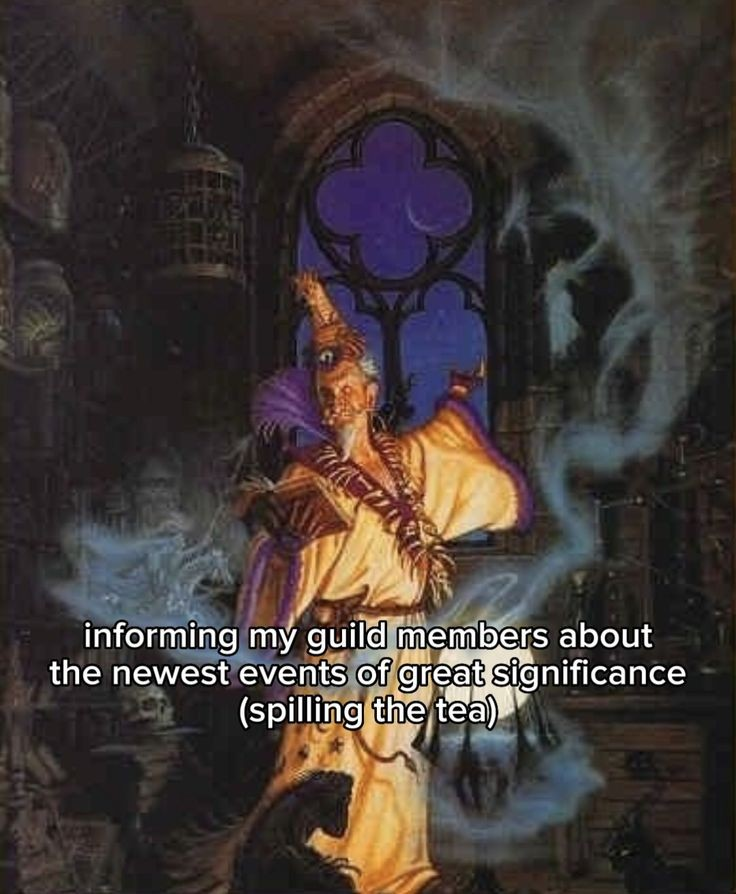
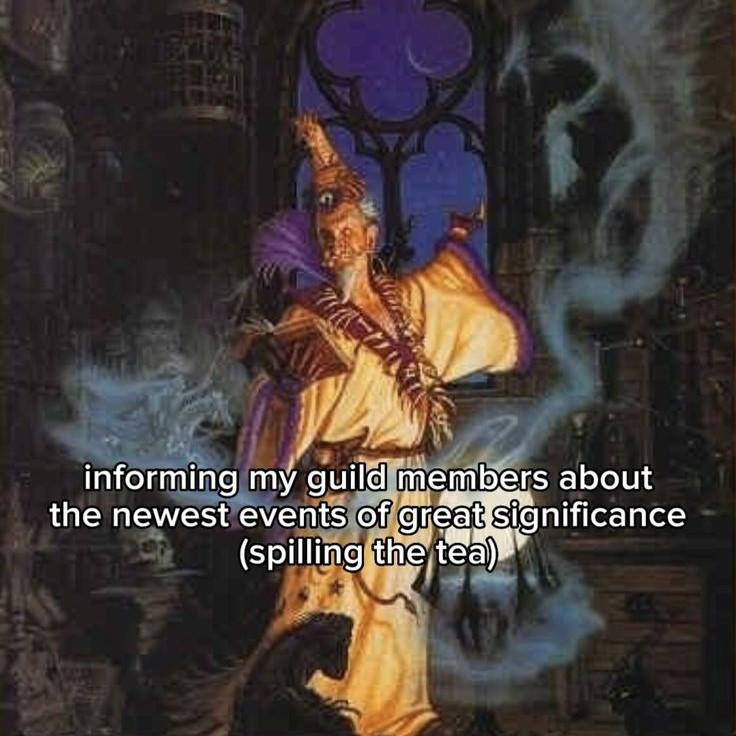
Carousel working alright. Could be more centered but it's good for the time I've had.

diff --git a/10/project5-library/carousel.js b/10/project5-library/carousel.js
@@ -1,5 +1,6 @@
 
 let images = ["images/wizard1.jpg", "images/wizard2.jpg", "images/wizard3.jpg", "images/wizard4.jpg"];
+let alts = ["pondering the orb", "meeting the guild", "absorbing wisdom", "collecting hymns"];
 let image=document.getElementById("carousel-example");
 count = 0;
 
@@ -7,9 +8,9 @@ setInterval(switchImg, 5000);
 
 
 function switchImg(){
-    image.innerHTML = `<div id="image" class="image" style="background-image: url(${images[count]})"></div>`
+    image.innerHTML = `<img id="image" class="image" src=${images[count]} alt="${alts[count]}" max-width="500px" height:auto>`
     count+=1;
-    if (count>images.length){
+    if (count>images.length-1){
         count=0;
     }
 }

diff --git a/10/project5-library/library.html b/10/project5-library/library.html
@@ -143,7 +143,7 @@
             <h2>Image Carousel</h2>
             <h3 class="part-label">Example:</h3>
             <div id="carousel-example">
-                <div id="image" class="image" style="background-image: url(images/wizard1.jpg)"></div>
+                <img id="image" class="image" src="images/wizard4.jpg" alt="collecting hymns" max-width="500px" height:auto>
             </div>
             <h3 class="part-label">HTML</h3>
             <div id="carousel-html" class="code">

diff --git a/10/project5-library/carousel.css b/10/project5-library/carousel.css
@@ -11,7 +11,8 @@
 
 .image{
     background-position:center;
-    padding: 200px;
+    width: 400px;
+    height:auto;
     position: absolute;
     animation: fade;
     animation-duration: 5s;
@@ -30,7 +31,7 @@
     }
     85%{
         opacity: 100%;
-        left:40%
+        left:40%;
     }
     100%{
         opacity: 0;
